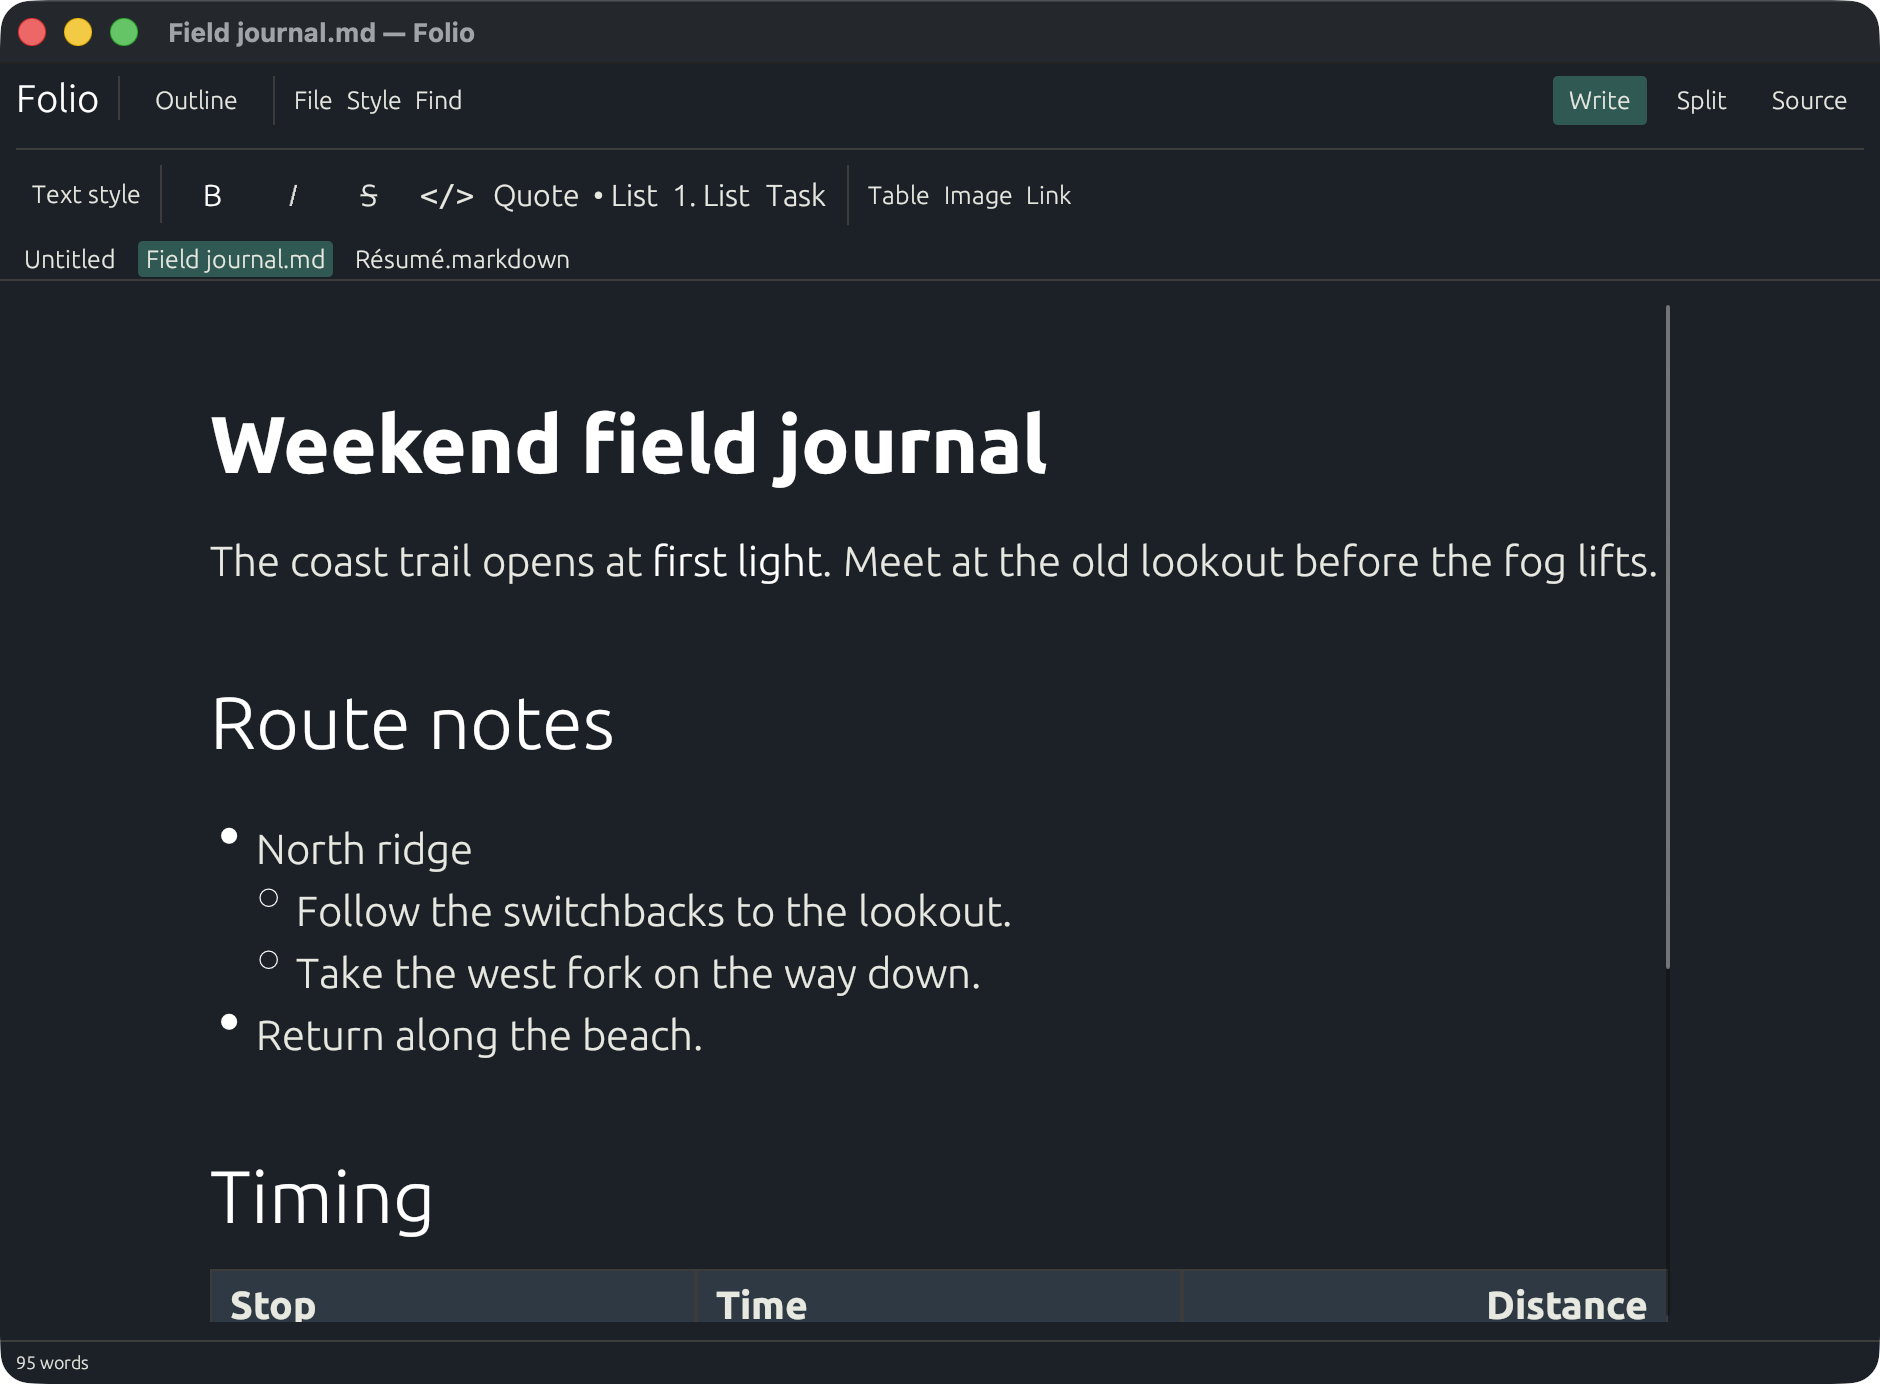
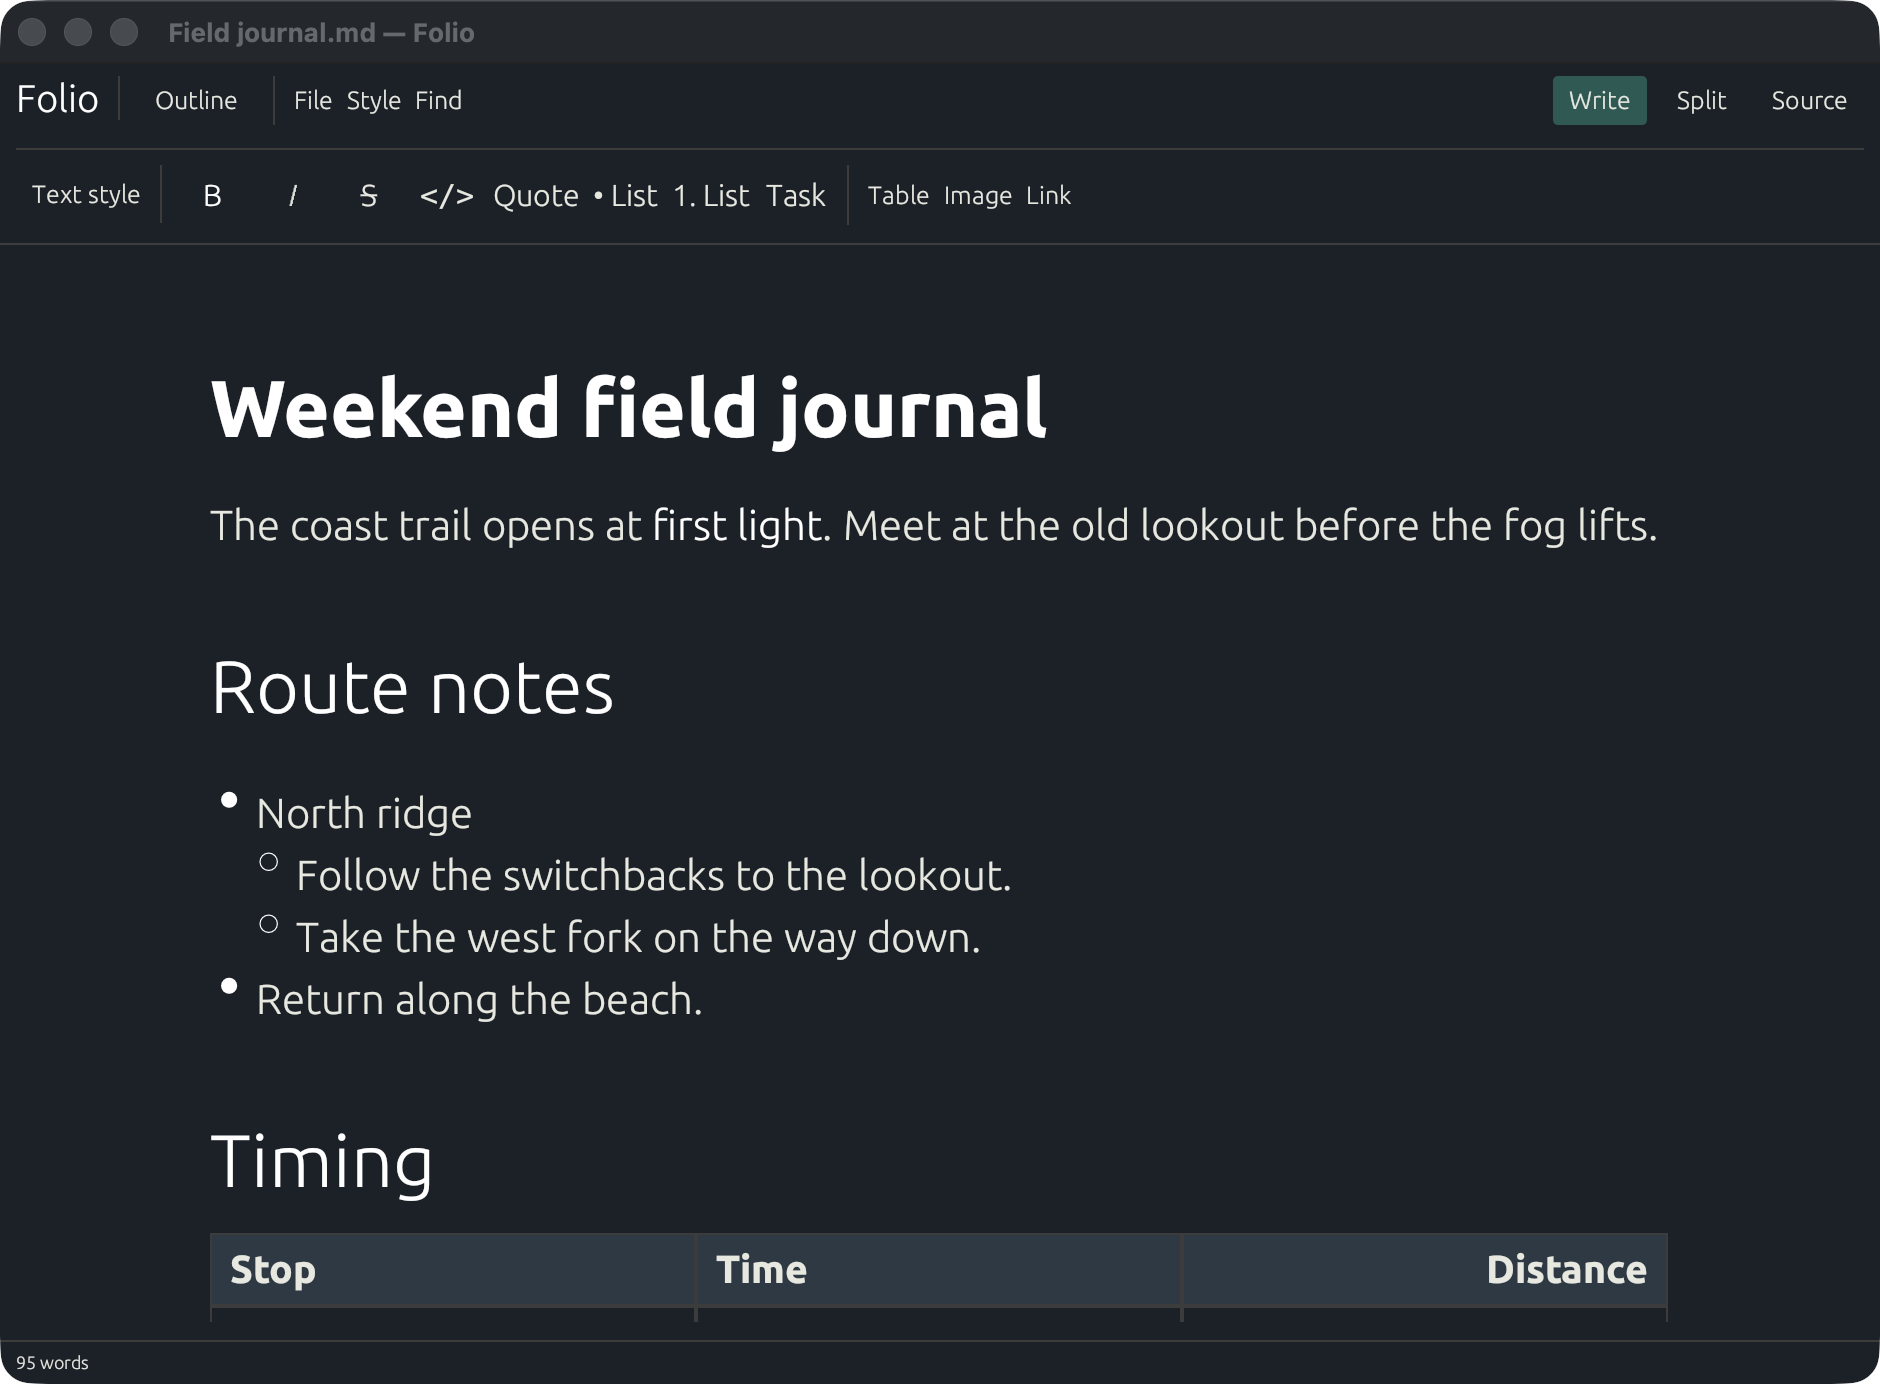
fix(editor): open launch documents before creating an empty tab

diff --git a/src/main.rs b/src/main.rs
@@ -94,6 +94,13 @@ struct Editor {
 
 impl Editor {
     fn new() -> Self {
+        let paths = std::env::args_os().skip(1).map(PathBuf::from);
+        #[cfg(target_os = "macos")]
+        let paths = paths.chain(mac_open::pending());
+        Self::with_documents(paths)
+    }
+
+    fn with_documents(paths: impl IntoIterator<Item = PathBuf>) -> Self {
         let mut app = Self {
             tabs: Vec::new(),
             active: 0,
@@ -110,8 +117,8 @@ impl Editor {
             text_size: 17.,
             jump: None,
         };
-        for p in std::env::args_os().skip(1) {
-            app.open(Path::new(&p));
+        for path in paths {
+            app.open(&path);
         }
         if app.tabs.is_empty() {
             app.add(Document::default());
@@ -1601,6 +1608,21 @@ fn main() -> eframe::Result {
 #[cfg(test)]
 mod drop_tests {
     use super::*;
+    #[test]
+    fn launch_documents_precede_the_untitled_fallback() {
+        let dir = tempfile::tempdir().unwrap();
+        let path = dir.path().join("Field journal.md");
+        std::fs::write(&path, "# Journal").unwrap();
+        let app = Editor::with_documents([path.clone(), path.clone()]);
+        assert_eq!(app.tabs.len(), 1);
+        assert_eq!(app.tabs[0].doc.text, "# Journal");
+        let mut app = Editor::with_documents([]);
+        app.tabs[0].doc.text.push_str("draft");
+        app.open(&path);
+        assert_eq!(app.tabs.len(), 2);
+        assert_eq!(app.tabs[0].doc.text, "draft");
+    }
+
     #[test]
     fn dropped_image_replaces_selection_and_markdown_opens_as_a_tab() {
         let dir = tempfile::tempdir().unwrap();
